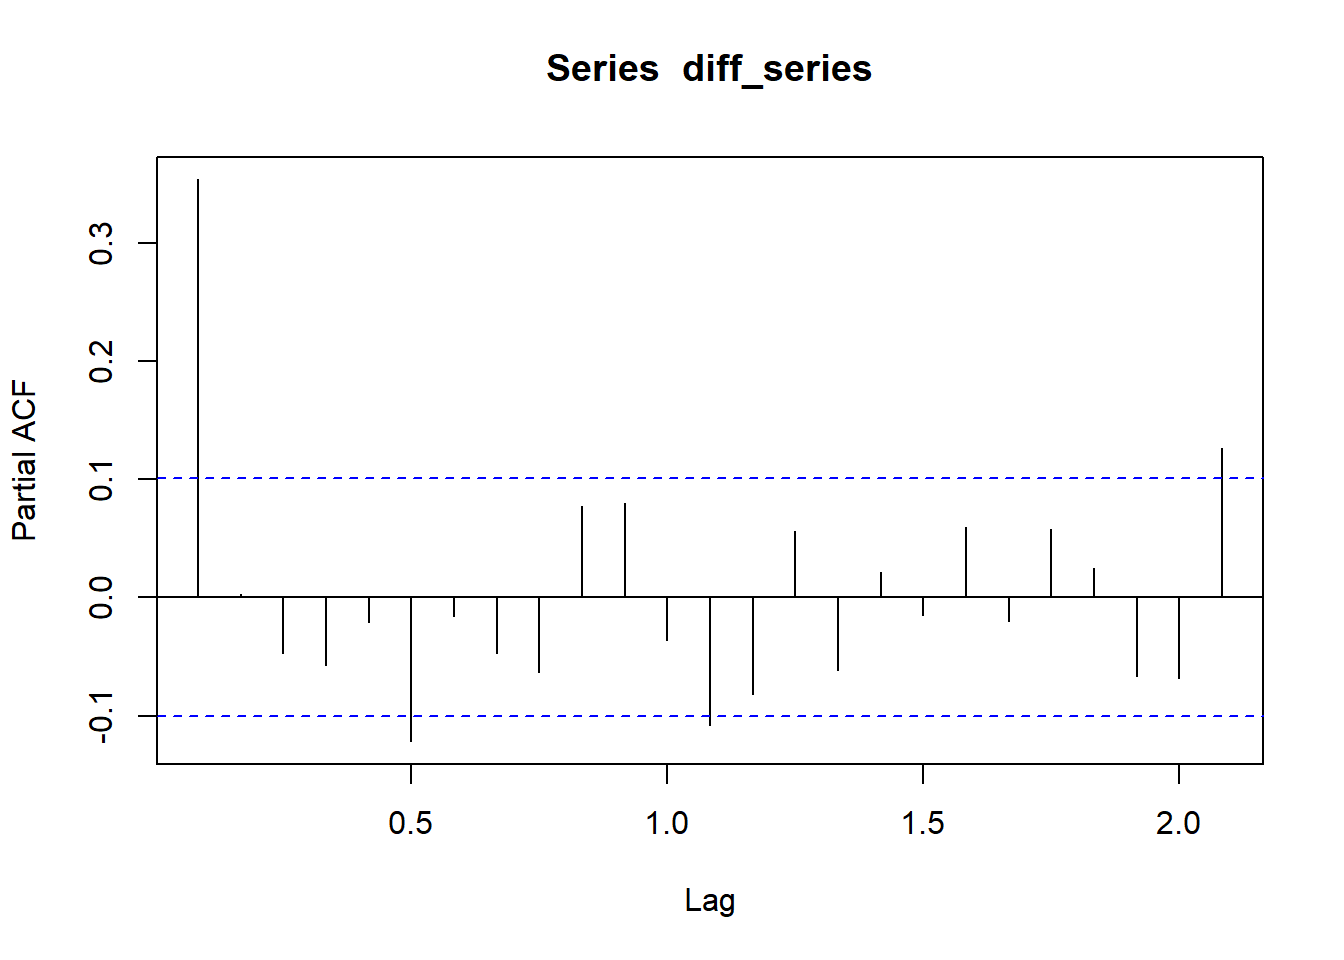
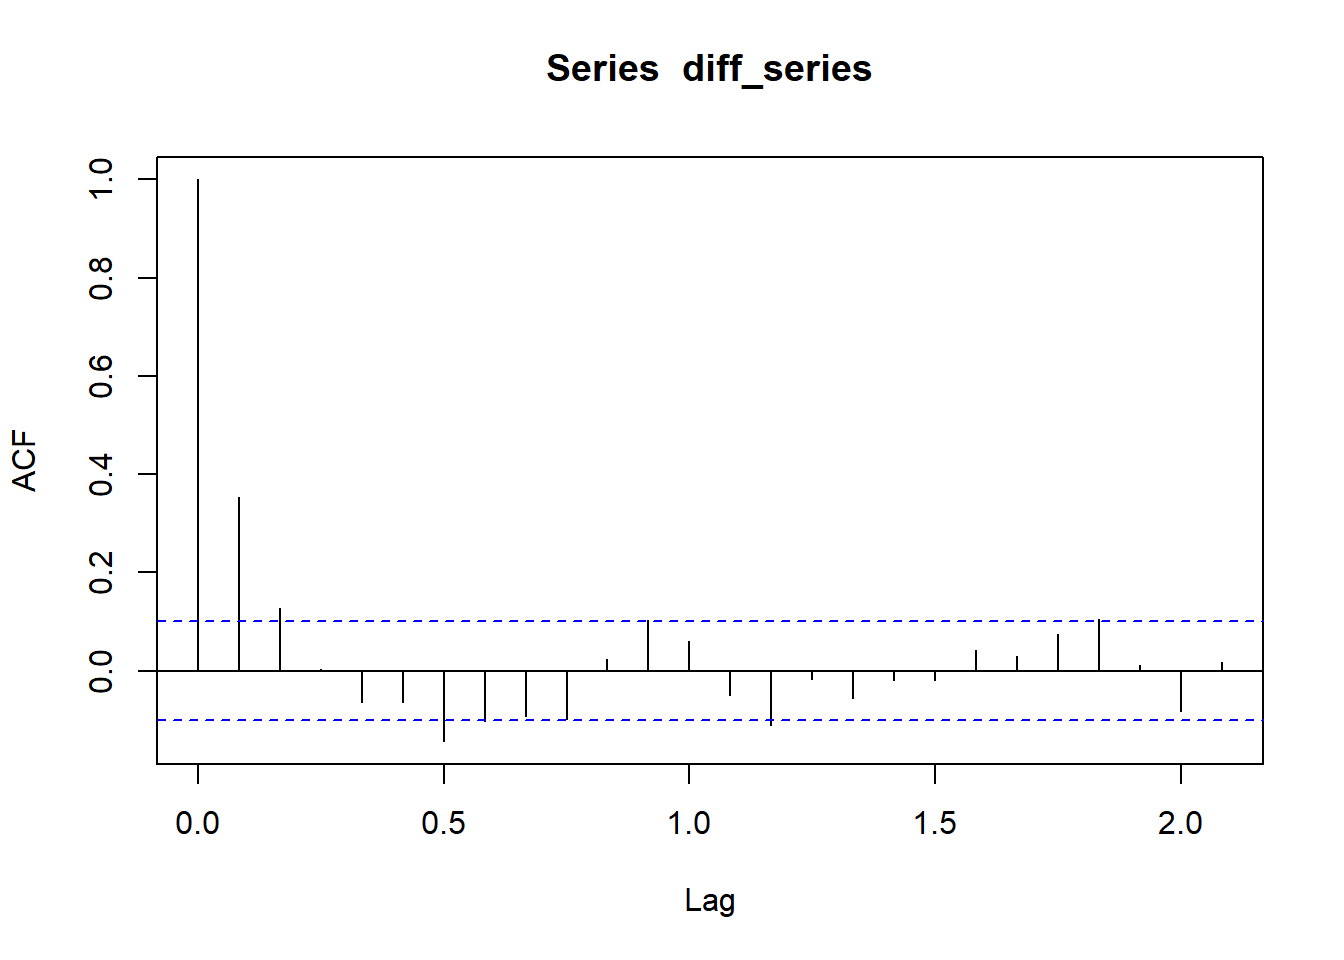
Initial Commit

diff --git a/content/post/2018-12-22-forecasting-of-brent-crude-oil-price-arima-modelling.html b/content/post/2018-12-22-forecasting-of-brent-crude-oil-price-arima-modelling.html
@@ -78,10 +78,9 @@ Though the series looks non-stationary, it might be a good idea to conduct Augme
 The p-value is larger than 0.05 and thus we fail to reject the null hypothesis which states that the time series includes a unit root. This indicates that the time series should be differenced in order to transform it into a stationary process.
 </p>
 <pre class="r"><code>diff_series &lt;- diff(brent_ts)
-acf(diff_series)</code></pre>
+layout(matrix(c(1,2,3,3), 2, 2, byrow = TRUE))
+a &lt;- ts.plot(diff_series)
+b &lt;- acf(diff_series)
+c &lt;- pacf(diff_series)</code></pre>
 <p><img src="/post/2018-12-22-forecasting-of-brent-crude-oil-price-arima-modelling_files/figure-html/unnamed-chunk-7-1.png" width="672" /></p>
-<pre class="r"><code>pacf(diff_series)</code></pre>
-<p><img src="/post/2018-12-22-forecasting-of-brent-crude-oil-price-arima-modelling_files/figure-html/unnamed-chunk-7-2.png" width="672" /></p>
-<pre class="r"><code>ts.plot(diff_series)</code></pre>
-<p><img src="/post/2018-12-22-forecasting-of-brent-crude-oil-price-arima-modelling_files/figure-html/unnamed-chunk-7-3.png" width="672" /></p>
 </div>
